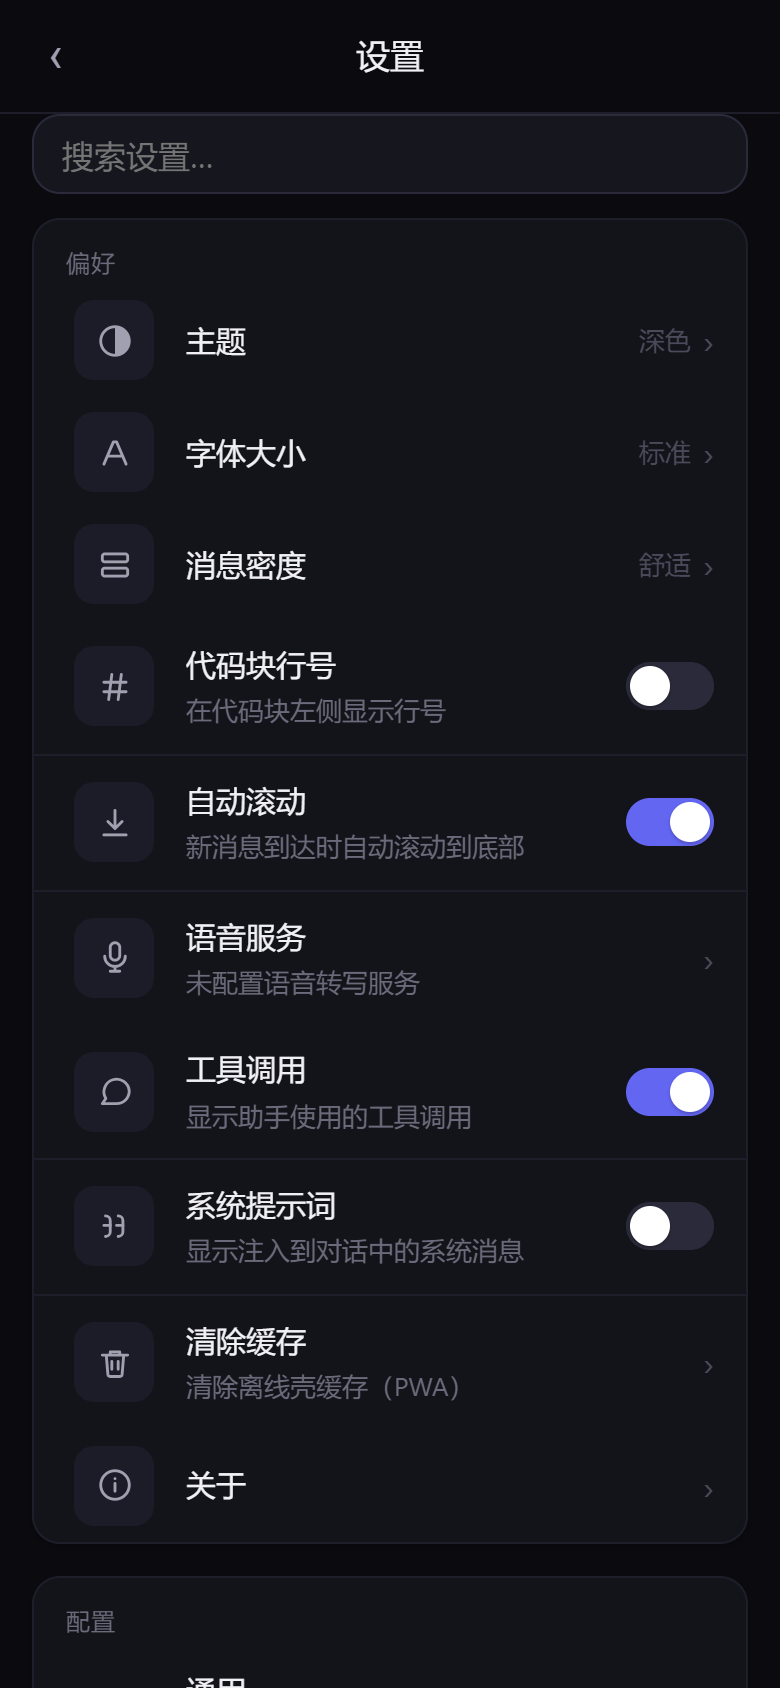
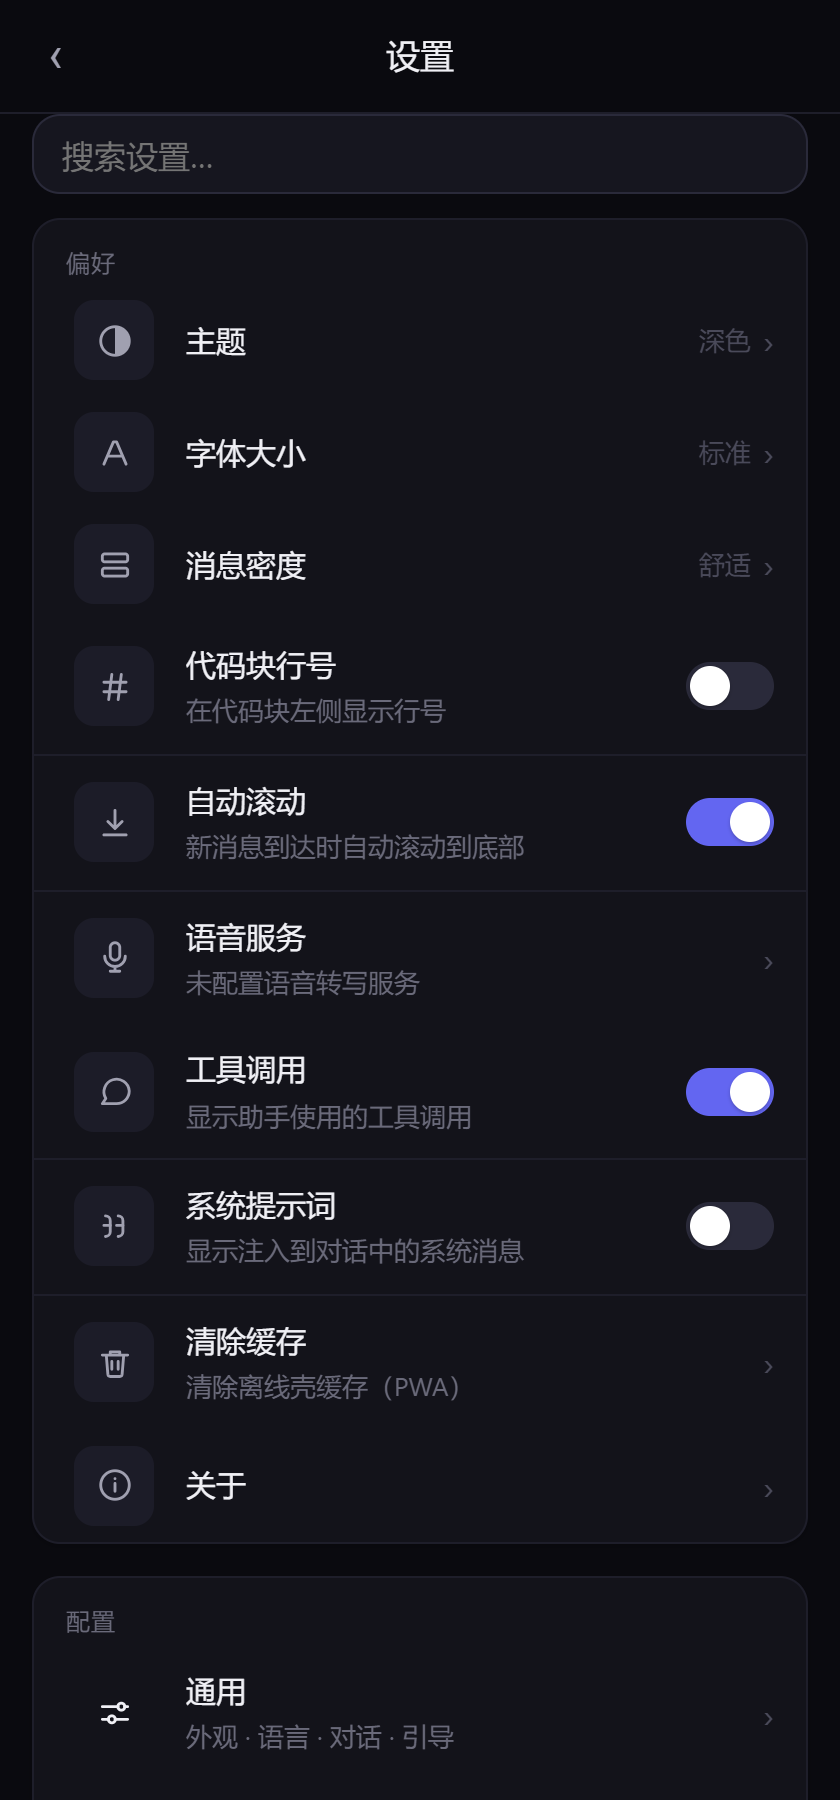
docs: refresh screenshots and feature descriptions after the review remediation
Regenerated chat/diff/settings screenshots against the live /m/ UI
(paired-device cookie via playwright-core + system Chrome); attach and
pair screenshots unchanged (those surfaces did not change). README and
README.zh-CN feature lists now cover session delete, IME-safe composer,
crash-safe outbox, host-key-never-leaves-host voice services, CSP,
rpcId-bound approvals, terminal-poll stop, incremental streaming
preview, stable diff cards, and the near-opaque header. CHANGELOG
Unreleased gains the full review remediation entries.

diff --git a/README.md b/README.md
@@ -14,7 +14,7 @@ dsh-palm is a **derivative work** of [dsh-remote-web-ui](https://github.com/zhu1
 
 | | |
 |---|---|
-| ![Chat](docs/screenshots/chat.png) | **Chat** — streaming markdown with syntax-highlighted code blocks and line numbers |
+| ![Chat](docs/screenshots/chat.png) | **Chat** — streaming markdown with tool tags, interactive diff cards and syntax-highlighted code blocks |
 | ![Diff cards](docs/screenshots/diff.png) | **Diff cards** — `diff` fences render as interactive cards with accept / reject actions |
 | ![Image attach](docs/screenshots/attach.png) | **Image attach** — paste or pick images, auto-compressed before send |
 | ![Settings](docs/screenshots/settings.png) | **Settings** — display, theme and message-visibility preferences |
@@ -33,25 +33,27 @@ The following are independent innovations over the upstream [dsh-remote-web-ui](
 **Realtime**
 
 - **Desktop-phone live sync** — both surfaces share one host event stream; measured end-to-end latency (desktop trigger → phone mux frame): loopback median 4 ms, public tunnel median 9 ms, Tailscale median 13 ms, weak network (200 ms simulated latency) median 246 ms
-- **SSE mux bridge with polling fallback** — stall detection (36 s for a live stream) arms adaptive history polling; events are never lost and the stream switches back the moment SSE delivers again
+- **SSE mux bridge with polling fallback** — stall detection (36 s for a live stream) arms adaptive history polling; events are never lost and the stream switches back the moment SSE delivers again; a revoked device stops polling and returns to the pairing page instead of polling forever
 - **Windowed streaming renderer** — only the visible prefix renders; long replies stay smooth
-- **Inline-markdown tail preview** — the streaming tail renders markdown live, no typewriter cursor
+- **Incremental streaming preview** — the open tail renders as escaped text grown per chunk (O(chunk) per frame, no per-chunk full re-scan), with inline markdown promoted on short blocks; no typewriter cursor
 - **Collapsible reasoning blocks** — in-body thinking folds into a disclosure
 
 **Interaction**
 
-- **Diff cards** — tolerant unified-diff parsing with word-level LCS marking, accept / reject / review actions, multi-file edits merged at their call-time points
+- **Diff cards** — tolerant unified-diff parsing with word-level LCS marking, accept / reject / review actions, multi-file edits merged at their call-time points; stable references across streaming chunks (no per-token reflow)
 - **Code actions** — copy, insert into editor, open, download, sandbox run; file-path tokens link to the host opener
 - **Command cards** — slash-command discovery and execution with running / success / error lifecycle
-- **Approval & question panels** — tool approvals stream in realtime and resolve in place
-- **Image attach** — paste or pick; canvas compression keeps payloads under a fixed budget
-- **Voice input & transcription** — in-browser WAV recording, OpenAI-compatible multi-service fallback (SenseVoiceSmall first), phone-managed service list
+- **Approval & question panels** — tool approvals stream in realtime and resolve in place; answers are bound to the owning device session (no cross-device stealing)
+- **Image attach** — paste or pick; canvas compression keeps payloads under a fixed budget; over-limit and decode failures surface as toasts instead of silent drops
+- **Voice input & transcription** — in-browser WAV recording (auto-finishes at 60 s, cleans up on leave), OpenAI-compatible multi-service fallback (SenseVoiceSmall first), phone-managed service list; host-configured services are shown as display facts only — host API keys never leave the host
 - **Plugin market** — browse, search and install plugins from the phone
+- **Session management** — delete sessions from the chat menu or a long-press on the roster; the offline outbox is cleared with the session
+- **IME-safe composer** — Chinese input-method composition never sends half-typed text
 
 **Offline & weak networks**
 
 - **PWA** — installable, versioned service worker, offline-capable bundle
-- **Offline outbox** — prompts queue in IndexedDB (memory fallback) and flush automatically on reconnect, never lost or duplicated
+- **Offline outbox** — prompts queue in IndexedDB (memory fallback) and flush automatically on reconnect; a sending flag prevents duplicate delivery after a crash; individual entries can be removed, permanently-failed entries are dropped
 - **gzip-compressed API responses** — weak-link friendly
 - **On-demand loading** — thin roster fetch; sessions load only when opened
 
@@ -69,7 +71,7 @@ The following are independent innovations over the upstream [dsh-remote-web-ui](
 - **`/m/` phone UI** — chat, workspace, approvals, image upload; code blocks with syntax highlighting, line numbers and diff cards
 - **`/m/api` RPC channel** — method whitelist + channel rules, with an `events.mux` SSE bridge for realtime updates
 - **Desktop-phone live sync** — one shared event stream; measured end-to-end latency: loopback 4 ms, public tunnel 9 ms, Tailscale 13 ms (median)
-- **Clean streaming output** — windowed prefix rendering, inline-markdown tail preview, no typewriter cursor
+- **Clean streaming output** — windowed prefix rendering, incremental escaped-tail preview, no typewriter cursor
 - **Collapsible reasoning blocks** — in-body thinking folds into a disclosure
 - **Diff cards** — `diff` fences render as interactive cards with accept / reject / review actions
 - **Code actions** — copy, insert into editor, open, download, sandbox run; file-path tokens link to the host opener
@@ -78,8 +80,9 @@ The following are independent innovations over the upstream [dsh-remote-web-ui](
 - **Image attach** — paste or pick; canvas compression keeps payloads under a fixed budget
 - **Voice input & transcription** — in-browser WAV recording, OpenAI-compatible multi-service fallback (SenseVoiceSmall first)
 - **Plugin market** — browse, search and install plugins from the phone
+- **Session delete** — from the chat 更多 menu or a long-press on the roster; clears the offline outbox for that session
 - **PWA** — installable, versioned service worker, offline-capable bundle
-- **Offline outbox** — prompts queue in IndexedDB and flush automatically on reconnect
+- **Offline outbox** — prompts queue in IndexedDB and flush automatically on reconnect; crash-safe (sending flag), per-entry removal
 - **gzip-compressed API responses** — weak-link friendly
 - **On-demand loading** — thin roster fetch; sessions load only when opened
 - **Desktop-parity settings** — phone settings sync with the desktop (schema forms, cascading model picker, permission presets)
@@ -123,7 +126,7 @@ pnpm build          # tsc -b && tsdown -> lib/index.js + lib/mobile.js
 
 ## Security
 
-Device trust is established by scan-to-pair; every `/m/api` call is gated by the pairing cookie and the method whitelist. See the pairing and gate sources for details, and [SECURITY.md](SECURITY.md) for the vulnerability reporting process and deployment notes.
+Device trust is established by scan-to-pair; every `/m/api` call is gated by the pairing cookie and the method whitelist. The `/m/` surface serves a strict Content-Security-Policy as the last line of defense behind the renderer, host voice-transcription API keys never leave the host (the phone sees display facts only), approval answers are bound to the owning device session, and host error details are never echoed to the phone. See the pairing and gate sources for details, and [SECURITY.md](SECURITY.md) for the vulnerability reporting process and deployment notes.
 
 ## Project docs
 

diff --git a/README.zh-CN.md b/README.zh-CN.md
@@ -14,7 +14,7 @@ dsh-palm 是 [dsh-remote-web-ui](https://github.com/zhu1090093659/dsh-web)（`@l
 
 | | |
 |---|---|
-| ![聊天](docs/screenshots/chat.png) | **聊天** —— 流式 Markdown，代码块带语法高亮与行号 |
+| ![聊天](docs/screenshots/chat.png) | **聊天** —— 流式 Markdown，带工具标签、可交互 diff 卡片与语法高亮代码块 |
 | ![Diff 卡片](docs/screenshots/diff.png) | **Diff 卡片** —— `diff` 代码块渲染为可交互卡片，支持接受 / 拒绝 |
 | ![图片上传](docs/screenshots/attach.png) | **图片上传** —— 粘贴或选择图片，发送前自动压缩 |
 | ![设置](docs/screenshots/settings.png) | **设置** —— 显示、主题与消息可见性偏好 |
@@ -33,25 +33,27 @@ dsh-palm 是 [dsh-remote-web-ui](https://github.com/zhu1090093659/dsh-web)（`@l
 **实时**
 
 - **手机端与桌面端实时同步** —— 两端共享同一条宿主事件流；实测端到端延迟（桌面触发 → 手机端 mux 帧）：本机回环中位数 4ms、公网隧道中位数 9ms、Tailscale 中位数 13ms、弱网（模拟 200ms 延迟）中位数 246ms
-- **SSE mux 桥 + 轮询回退** —— 停滞检测（活跃流 36s）自动启动自适应历史轮询；事件不丢，SSE 恢复后立即切回
+- **SSE mux 桥 + 轮询回退** —— 停滞检测（活跃流 36s）自动启动自适应历史轮询；事件不丢，SSE 恢复后立即切回；设备被撤销后停止轮询并回到配对页，而非无限空转
 - **窗口化流式渲染** —— 只渲染可见前缀，长回复保持流畅
-- **行内 Markdown 尾部预览** —— 流式尾部实时渲染 Markdown，无打字机光标
+- **增量流式预览** —— 未闭合尾部按 chunk 增量转义（每帧 O(chunk)，不再整段重扫），短块保留行内 Markdown 提升；无打字机光标
 - **推理块折叠** —— 正文中的思考内容折叠为可展开块
 
 **交互**
 
-- **Diff 卡片** —— 容忍模型退化形状的 diff 解析 + 词级 LCS 标记，支持接受 / 拒绝 / 评审，多文件编辑在调用时间点合并
+- **Diff 卡片** —— 容忍模型退化形状的 diff 解析 + 词级 LCS 标记，支持接受 / 拒绝 / 评审，多文件编辑在调用时间点合并；流式 chunk 间保持稳定引用（不再逐 token 重排）
 - **代码操作** —— 复制、插入编辑器、打开、下载、沙箱运行；文件路径自动链接到宿主打开器
 - **命令卡片** —— slash 命令发现与执行，带运行中 / 成功 / 失败生命周期
-- **审批与问题面板** —— 工具审批实时推送、就地解决
-- **图片上传** —— 粘贴或选择；canvas 压缩把载荷控制在固定预算内
-- **语音输入与转写** —— 浏览器内 WAV 录音，OpenAI 兼容多服务按序回退（默认 SenseVoiceSmall），手机端可管理服务列表
+- **审批与问题面板** —— 工具审批实时推送、就地解决；应答绑定所属设备会话（多端不能互相抢占）
+- **图片上传** —— 粘贴或选择；canvas 压缩把载荷控制在固定预算内；超限与解码失败以 toast 提示而非静默丢弃
+- **语音输入与转写** —— 浏览器内 WAV 录音（60s 自动收尾、离开页面自动清理），OpenAI 兼容多服务按序回退（默认 SenseVoiceSmall），手机端可管理服务列表；宿主配置的服务仅作展示——宿主 API key 绝不离开宿主
 - **插件市场** —— 手机端浏览、搜索、安装插件
+- **会话管理** —— 聊天更多菜单或列表长按删除会话；离线发件箱随会话一并清理
+- **输入法安全** —— 中文输入法组合期间不会误发半截拼音
 
 **离线与弱网**
 
 - **PWA** —— 可安装、带版本号的服务工作者、可离线使用的打包产物
-- **离线发件箱** —— 断网时消息排队（IndexedDB + 内存回退），联网自动发送，不丢不重
+- **离线发件箱** —— 断网时消息排队（IndexedDB + 内存回退），联网自动发送；sending 标志防止崩溃后重复投递；支持单条移除，永久失败条目自动清理
 - **gzip 压缩 API 响应** —— 弱网友好
 - **按需加载** —— 工作区列表轻量拉取；会话只在打开时加载
 
@@ -69,7 +71,7 @@ dsh-palm 是 [dsh-remote-web-ui](https://github.com/zhu1090093659/dsh-web)（`@l
 - **`/m/` 手机端 UI** —— 聊天、工作区、审批、图片上传；代码块带语法高亮、行号与 diff 卡片
 - **`/m/api` RPC 通道** —— 方法白名单 + 通道规则，配 `events.mux` SSE 桥实现实时更新
 - **手机端与桌面端实时同步** —— 两端共享同一条事件流；实测端到端延迟：本机回环 4ms、公网隧道 9ms、Tailscale 13ms（中位数）
-- **干净的流式输出** —— 窗口化前缀渲染、行内 Markdown 尾部预览、无打字机光标
+- **干净的流式输出** —— 窗口化前缀渲染、增量转义尾部预览、无打字机光标
 - **推理块折叠** —— 正文中的思考内容折叠为可展开块
 - **Diff 卡片** —— `diff` 代码块渲染为可交互卡片，支持接受 / 拒绝 / 评审
 - **代码操作** —— 复制、插入编辑器、打开、下载、沙箱运行；文件路径自动链接到宿主打开器
@@ -78,8 +80,9 @@ dsh-palm 是 [dsh-remote-web-ui](https://github.com/zhu1090093659/dsh-web)（`@l
 - **图片上传** —— 粘贴或选择；canvas 压缩把载荷控制在固定预算内
 - **语音输入与转写** —— 浏览器内 WAV 录音，OpenAI 兼容多服务按序回退（默认 SenseVoiceSmall）
 - **插件市场** —— 手机端浏览、搜索、安装插件
+- **会话删除** —— 聊天更多菜单或列表长按；同时清理该会话的离线发件箱
 - **PWA** —— 可安装、带版本号的服务工作者、可离线使用的打包产物
-- **离线发件箱** —— 断网时消息排队（IndexedDB），联网自动发送
+- **离线发件箱** —— 断网时消息排队（IndexedDB），联网自动发送；崩溃安全（sending 标志）、支持单条移除
 - **gzip 压缩 API 响应** —— 弱网友好
 - **按需加载** —— 工作区列表轻量拉取；会话只在打开时加载
 - **桌面级设置同步** —— 手机端设置与桌面同步（schema 表单、级联模型选择、权限预设）
@@ -123,7 +126,7 @@ pnpm build          # tsc -b && tsdown -> lib/index.js + lib/mobile.js
 
 ## 安全
 
-设备信任通过扫码配对建立；每次 `/m/api` 调用都由配对 cookie 与方法白名单把关。详见配对与 gate 源码，以及 [SECURITY.md](SECURITY.md) 的漏洞报告流程与部署注意事项。
+设备信任通过扫码配对建立；每次 `/m/api` 调用都由配对 cookie 与方法白名单把关。`/m/` 页面提供严格 Content-Security-Policy 作为渲染器之后的最后防线；宿主语音转写 API key 绝不离开宿主（手机端仅见展示信息）；审批应答绑定所属设备会话；宿主错误细节不回显给手机。详见配对与 gate 源码，以及 [SECURITY.md](SECURITY.md) 的漏洞报告流程与部署注意事项。
 
 ## 项目文档
 

diff --git a/CHANGELOG.md b/CHANGELOG.md
@@ -7,6 +7,9 @@ All notable changes to this project are documented here. The format is based on 
 ### Fixed
 
 - **Phone session list hides deleted/archived sessions** — the host `session.list` still returns a deleted session while its attached live entry survives in memory; the phone now merges the `workspace.list` archive set and filters archived rows before paging
+- **Full review remediation (security)** — the `/m/` surface now serves a strict Content-Security-Policy (last line of defense behind the renderer for the full-control pairing cookie); host voice-transcription API keys never leave the host (display facts only, stale host imports dropped from the phone list); oversized request bodies are drained so keep-alive connections cannot misalign; `mobile.respond` validates rpcId ownership (unknown → not-found, foreign session → conflict); the polling fallback stops on terminal unpaired errors and the UI returns to the pairing page; outbox entries carry a sending flag so a crash cannot duplicate a prompt; accept rate limiting uses a shared socket-IP bucket that XFF rotation cannot drain; host error details no longer leak to the phone
+- **Full review remediation (streaming/perf)** — long open paragraphs stream through an incremental plain-escape path (O(chunk) per frame instead of O(n²) regex rescans); diff artifact cards keep a stable merged view across chunks (no per-token reflow or re-derive); the sticky header drops backdrop-filter for a near-opaque background; shiki sync highlighting is cached by (lang, code); the SSE-live pending poll slows to 60 s
+- **Full review remediation (functionality)** — voice recording cleans up on unmount (mic/stream released, no setState after unmount) and auto-finishes at 60 s; session delete added to the chat 更多 menu and the roster long-press (clears the offline outbox); search notes it only covers loaded pages; read-only settings groups no longer show a fake save; IME composition no longer sends half-typed Chinese; image over-limit and decode failures surface as toasts; the market list shows the 300-cap; offline banner entries can be removed individually and permanently-failed entries are dropped; the About version comes from package.json; deleting the recent workspace clears recentId; empty number inputs do not write back 0
 
 ## [0.1.0] - 2026-08-30
 
